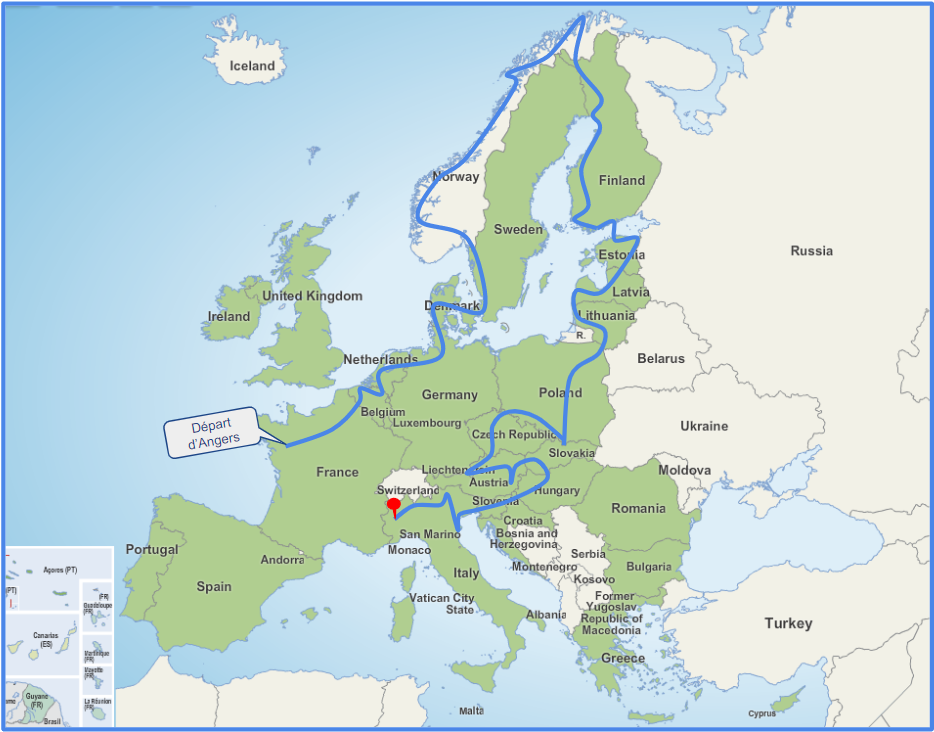
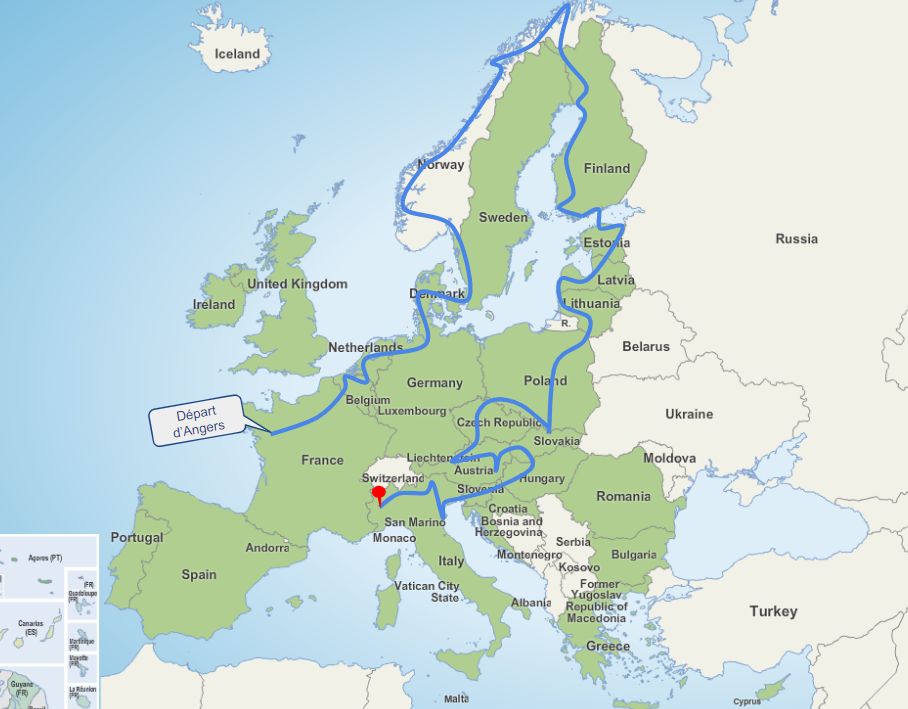
maj du 09/02/2021

diff --git a/public/js/map.js b/public/js/map.js
@@ -21,13 +21,16 @@ var map = {
 
 
 	initMarker: function() {
+
 		fetch('index.php?action=Markers')
 		.then(datas=>datas.json())
 		.then(function(datas) {
 			for (var marker of datas) {
+				var popup_link = marker['_link'];
+				var popup_content = 'Accéder à l\'article: <a href="'+popup_link+'" class="speciallink">ICI</a>';
 				console.log(marker);
 				L.marker([marker['_lat'], marker['_lon']]).addTo(map.macarte)
-				.bindPopup(marker['_name']+'<br />'+marker['_content']+'<br />'+marker['_link']);
+				.bindPopup(marker['_name']+'<br />'+marker['_content']+'<br />'+popup_content);
 			}
 		});
 	},

diff --git a/view/FrontOffice/HomePage.php b/view/FrontOffice/HomePage.php
@@ -42,7 +42,7 @@
 			        
                     <?php 
 		            if(strlen($post->content()) > 200) {
-		                echo substr ($post->content(), 0, 400);
+		                echo substr (htmlspecialchars($post->content()), 0, 400);
 		                ?> <p>[...]</p>
 		                <?php
 		            } else {
@@ -51,7 +51,7 @@
 		            ?>
 			    </div>
 
-			    <div class=" bg-green-400 border-2 border-solid rounded-lg border-green-600 hover:text-white hover:bg-green-800 w-32 text-center m-auto p-1 mt-8"><a href="index.php?action=OnePost&post_id=<?php echo $post->id(); ?>">Lire la suite</a>
+			    <div class=" bg-green-400 border-2 border-solid rounded-lg border-green-600 hover:text-white hover:bg-green-800 w-32 text-center m-auto p-1 mt-8"><a href="index.php?action=OnePost&post_id=<?php echo htmlspecialchars($post->id()); ?>">Lire la suite</a>
 			    </div>
 			</div>
 		    <?php
@@ -65,12 +65,25 @@
 
     <div class="bg-green-400 pb-28">
 		<h2 class="text-4xl text-green-800 text-center p-12">Suivez notre trajet</h2>
-		<div class="text-center">
-			<img class="w-1/2 m-auto" src="images/carteeuropenous.png">
-			<div class="animate-bounce">
-				<a class=" bg-yellow-400 border-2 border-solid rounded-lg border-green-600 hover:bg-green-800 hover:text-white p-6 text-center " href="index.php?action=Map" title="Carte interactive">Accéder à notre carte interactive</a>
+		<div class="flex justify-center">
+			<img class="w-96 border-8 border-solid rounded-2xl border-green-500" src="images/carteeuropenous.PNG">
+			<div class=" w-2/5 p-8">
+				<p class=" text-2xl text-green-800 text-center pb-12">Vous souhaitez découvrir les points forts de notre voyage, alors cliquez sur le bouton ci-dessous pour suivre notre itinéraire. Nous mettons à jour régulièrement nos coups de coeur...</p>
+				<div class="text-center">
+					<a class="bg-yellow-400 border-2 border-solid rounded-lg border-green-600 hover:bg-green-800 hover:text-white p-6 text-center  " href="index.php?action=Map" title="Carte interactive">Accéder à notre itinéraire</a>
+				</div>
+				
 			</div>
 		</div>
+	</div>
+
+	<div class="bg-yellow-400 pb-28 ">
+		<h2 class="text-4xl text-green-800 text-center p-12">Suivez également notre aventure sur</h2>
+		<img class="m-auto w-2/5 border-2 border-solid rounded-2xl border-green-500" src="images/LogoFI.jpg">
+		<h2 class="text-4xl text-green-800 text-center p-12">
+			<a class="bg-green-400 border-2 border-solid rounded-lg border-green-600 hover:text-white hover:bg-green-800  text-center m-auto p-1 mt-8" href="https://www.facebook.com/vivredaventure">Facebook</a>
+			 et 
+			<a class="bg-green-400 border-2 border-solid rounded-lg border-green-600 hover:text-white hover:bg-green-800  text-center m-auto p-1 mt-8"  href="https://www.instagram.com/vivredaventure/">Instagram</a></h2>
 	</div>
 </section>
 

diff --git a/controller/UserController.php b/controller/UserController.php
@@ -53,9 +53,16 @@ class UserController {
 		$error_messages = [];
 		$_SESSION['errors'] = '';
 
+		$manager = new UserManager();
+
 		if(empty($_POST['login']) or mb_strlen($_POST['login']) <= 2 or mb_strlen($_POST['login']) > 249) {
 			$errors++;
 			$_SESSION['errors'] .= 'Le login n\'a pas un format valide. ';
+		}
+
+		if ($manager->getUser($_POST['login'])) {
+			$errors++;
+			$_SESSION['errors'] .= 'Le login saisi est déjà pris par un autre utilisateur.';
 		}
 
 		if(empty($_POST['pass']) or mb_strlen($_POST['pass']) <= 3) {
@@ -69,41 +76,17 @@ class UserController {
 
 		if($errors === 0) 
 		{	
-			$manager = new UserManager();
 			$manager->StoreUser($_POST['login'], $hashed_password);
-			
-			$manager = new UserManager();
 			$user = $manager->getUser($_POST['login']); /*bcrypt*/
-			if(($user and password_verify($_POST['pass'], $user->pass())) && ($user->admin() === "1")){
-				$_SESSION['id'] = $user->id();
-				$_SESSION['admin'] = $user->admin();
-				$_SESSION['login'] = $user->login();
-				header('location:index.php?action=Dashboard');
-				return;
-			} 
-			else if($user and password_verify($_POST['pass'], $user->pass())){
-				$_SESSION['id'] = $user->id();
-				$_SESSION['login'] = $user->login();
-				header('location:index.php?action=index');
-				return;
-			}
-
-			else {
-				$_SESSION['errors'] = 'Login ou mot de passe incorrect';
-			}
+			$_SESSION['id'] = $user->id();
+			$_SESSION['admin'] = $user->admin();
+			$_SESSION['login'] = $user->login();
+			header('location:index.php?action=index');
+			return;
 		}
 		header('location:index.php?action=Login');
-		return;
-
-	
-		
-		
+		return;	
 	}
-
-	
-
-
-
 
 		// arret de la session lors de la demande de deconnection depuis le dashboard, redirection
 	public function Disconnection() {

diff --git a/controller/AdminController.php b/controller/AdminController.php
@@ -5,6 +5,12 @@ namespace Controller;
 use Model\{PostManager, MarkerManager};
 
 class AdminController {
+
+	private $postManager;
+
+	public function __construct() {
+		$this->postManager = new PostManager();
+	}
     
     	//affichage de la page nouveau post du dashboard
 	public function NewPost() {
@@ -32,8 +38,7 @@ class AdminController {
 			$_SESSION['errors'] .= 'Le contenu du chapitre n\'a pas un format valide.';
 		}
 		if($errors === 0) {
-			$manager = new PostManager();
-			$manager->StorePost($_POST['title'], $_POST['content']);
+			$this->postManager->StorePost($_POST['title'], $_POST['content']);
 			header('location: index.php?action=ListPost');
 		} 
 		else {
@@ -45,8 +50,7 @@ class AdminController {
 	    //appel à la fonction d'affichage des chapitres dans la page db_post du dashboard, condition de connexion
     public function ListPost() {
 		if(isset($_SESSION['admin'])) {
-			$manager = new PostManager();
-			$posts = $manager->getPost();
+			$posts = $this->postManager->getPost();
 			require '../view/BackOffice/ListPost.php';
 		} else {
 			echo "Vous ne pouvez pas accéder à cette rubrique !";

diff --git a/view/FrontOffice/Template.php b/view/FrontOffice/Template.php
@@ -43,7 +43,7 @@
                     <ul class="flex">
                          <li class="bg-green-400 border-2 border-solid rounded-lg border-green-600 hover:bg-yellow-400 p-1 m-2"><a href="index.php" title="Page d'accueil">Page d'accueil</a></li>
                          <li class="bg-green-400 border-2 border-solid rounded-lg border-green-600 hover:bg-yellow-400 p-1 m-2"><a href="index.php?action=Posts" title="Nos destinations">Nos destinations</a></li>
-                         <li class="bg-green-400 border-2 border-solid rounded-lg border-green-600 hover:bg-yellow-400 p-1 m-2"><a href="index.php?action=Map" title="Carte interactive">Carte interactive</a></li>
+                         <li class="bg-green-400 border-2 border-solid rounded-lg border-green-600 hover:bg-yellow-400 p-1 m-2"><a href="index.php?action=Map" title="Carte interactive">Notre itinéraire</a></li>
                         
                         <?php if(isset($_SESSION['admin'])) {
                             ?>

diff --git a/model/CommentManager.php b/model/CommentManager.php
@@ -8,7 +8,7 @@ class CommentManager extends Bdd {
 	public function getComments($id) {
 		$this->getBDD();
 		$donnees = [];
-		$q = $this->_db->prepare('SELECT id, post_id, author, comment, DATE_FORMAT(date_comment, \'%d/%m/%Y\') AS date FROM comments WHERE post_id = ?');
+		$q = $this->_db->prepare('SELECT id, post_id, author, comment, DATE_FORMAT(date_comment, \'%d/%m/%Y\') AS date FROM comments WHERE post_id = ? ');
 		$q->execute(array($id));
 		$comments = $q->fetchAll(\PDO::FETCH_ASSOC);
 		$q->closeCursor();

diff --git a/model/UserManager.php b/model/UserManager.php
@@ -10,8 +10,13 @@ class UserManager extends Bdd {
         $req = $this->_db->prepare('SELECT * FROM users WHERE login = ?');
         $req->execute(array($login));
         $resultat = $req->fetch(\PDO::FETCH_ASSOC);
-        $user = new User($resultat);
-        return $user;
+        if($resultat) {
+            $user = new User($resultat);
+            return $user;
+        }
+        return false;
+        
+        
     }
 
 	public function StoreUser($login, $hashed_password) {
